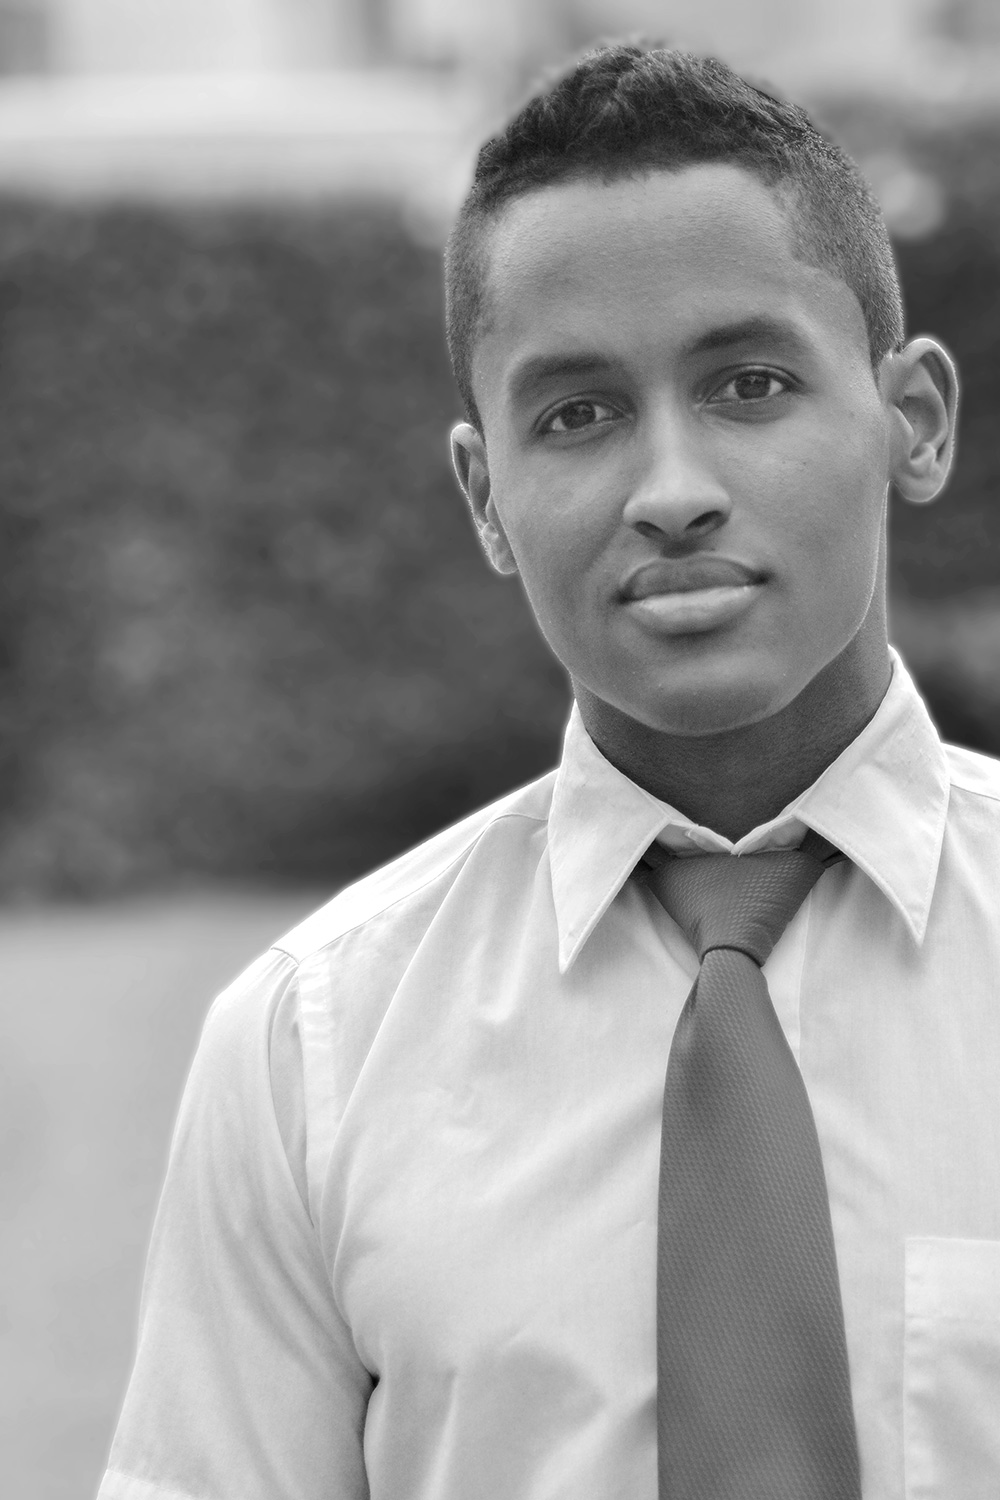
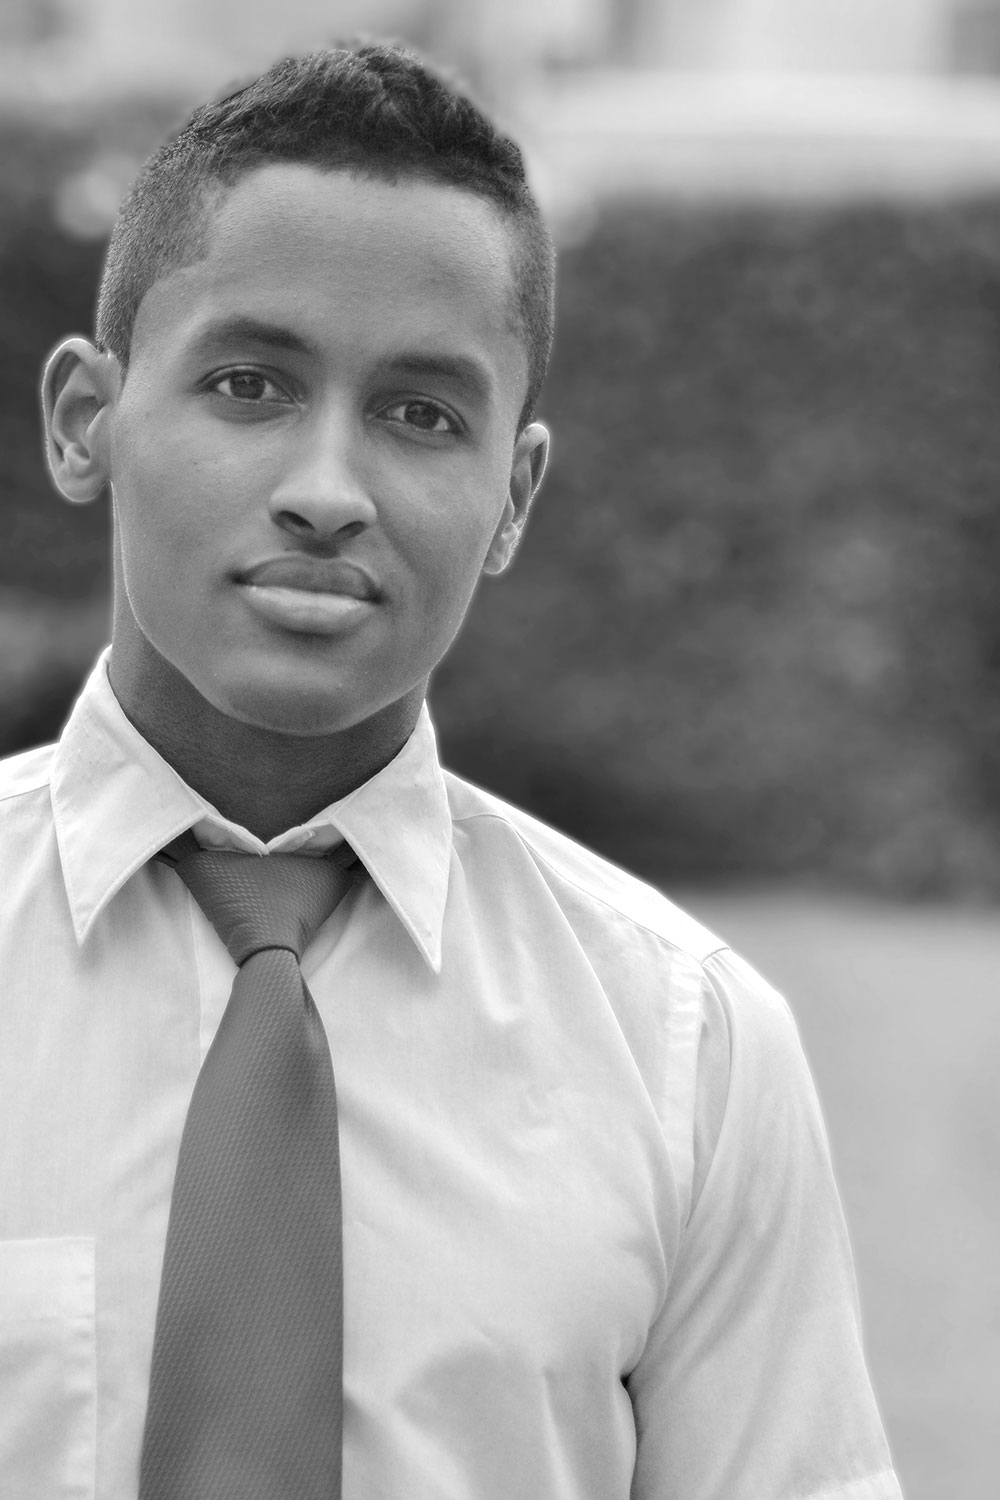
Adding static

diff --git a/assets/css/style.css b/assets/css/style.css
@@ -55,10 +55,9 @@ h6 {
 #paper {
 	position: relative;
 	background-color: #fff;
-	min-height: 250px;
-	-webkit-box-shadow: 0 7px 17px #cccccc;
-	-moz-box-shadow: 0 7px 17px #cccccc;
-	box-shadow: 0 7px 17px #cccccc;
+	-webkit-box-shadow: 0 34px 44px #cccccc; /* 0 7px 17px #cccccc */
+	-moz-box-shadow: 0 34px 44px #cccccc;
+	box-shadow: 0 34px 44px #cccccc;
 	-webkit-radius: 3px;
 	border-radius: 3px;
 }
@@ -76,6 +75,111 @@ h6 {
 	border-top-left-radius: 3px;
 	border-top-right-radius: 3px;
 }
-#paper [class*='col-'] {
+.nop {
 	padding: 0;
+}
+.product-image {
+	position: relative;
+}
+.product-image:after {
+	content: "";
+    position: absolute;
+    top: 7%;
+    left: 9%;
+    background-color: #009cc3; /* #20d3fd */
+    width: 81%;
+    height: 87%;
+    display: block;
+    opacity: 0.5;
+}
+.product-name {
+	font-size: 1.5em;
+	margin-top: 30px;
+	margin-bottom: 0;
+}
+.product-category {
+	color: #afafaf;
+}
+.product-price {
+    color: #666;
+}
+.product-detail {
+    margin-top: 25px;
+}
+.detail-title {
+    font-weight: 600;
+    font-size: 1em;
+    margin-bottom: 0;
+}
+.detail-content {
+    font-size: 1.1em;
+}
+.product-cta {
+	margin-top: 20px;
+	margin-bottom: 50px;
+}
+.btn {
+	display: inline-block;
+	padding: 10px 25px;
+	margin-bottom: 0;
+	font-size: 14px;
+	font-weight: normal;
+	line-height: 1.72857143;
+	text-align: center;
+	white-space: nowrap;
+	vertical-align: middle;
+	-ms-touch-action: manipulation;
+	touch-action: manipulation;
+	cursor: pointer;
+	-webkit-user-select: none;
+	-moz-user-select: none;
+	-ms-user-select: none;
+	user-select: none;
+	background-image: none;
+	border: none;
+	border-radius: 32px;
+	font-family: "Montserrat";
+}
+.btn:hover {
+	text-decoration: none;
+}
+.btn-primary {
+	color: #fff;
+	background-color: #00d7d7;
+}
+/*  Mobile First */
+@media screen and (min-width: 480px) {
+	#paper {
+		min-height: 250px;
+	}
+	.product-image:before {
+		content: "";
+		position: absolute;
+		top: 0;
+		right: -78px;
+    	width: 157px;
+    	height: 100%;
+		background-color: #fff;
+		transform: skewX(15deg);
+	}
+	.product-info {
+		position: relative;
+		margin-top: 100px;
+	}
+	.product-name {
+		font-size: 3em;
+	}
+	.detail-title {
+	    font-size: 1.3em;
+	}
+	.btn-primary {
+		font-size: 24px;
+	}
+	.product-cta {
+		margin-top: 50px;
+		margin-bottom: 20px;
+	}
+	.detail-content {
+	    font-size: 1.4em;
+	}
 }

diff --git a/index.html b/index.html
@@ -25,14 +25,52 @@
 <body>
 	<div id="wrapper" class="container-fluid">
 		<div class="row">
-			<div class="col-lg-offset-2 col-lg-8 col-md-offset-2 col-md-8 col-sm-offset-1 col-sm-offset-8 col-xs-offset-1 col-xs-10">
+			<div class="col-lg-offset-2 col-lg-8 col-md-offset-2 col-md-8 col-sm-offset-1 col-sm-offset-8 col-xs-12">
 				<div id="paper" class="container-fluid">
 					<div class="row">
-						<div class="col-sm-4">
-							<img class="img-responsive" src="assets/img/profile.jpg" height="1500" width="1000" alt="">
+						<div class="col-sm-5 nop">
+							<div class="product-image">
+								<img class="img-responsive" src="assets/img/profile.jpg" height="1500" width="1000" alt="">
+							</div> 
 						</div>
-						<div class="col-sm-8">
-							
+						<div class="col-sm-7 nop">
+							<div class="container-fluid">
+								<div class="row">
+									<div class="col-lg-12 col-md-12 col-sm-12 col-xs-12">
+										<div class="product-info">
+											<h1 class="product-name text-uppercase">
+												Richard Blondet
+											</h1>
+											<p class="product-category">
+												Web Developer
+											</p>
+											<h2 class="product-price">
+												$17
+											</h2>
+										</div>
+									</div>
+								</div>
+								<div class="row">
+									<div class="col-lg-11 col-md-11 col-sm-11 col-xs-11">
+										<div class="product-detail">
+											<p class="detail-title text-uppercase text-underline">
+												Details
+											</p>
+											<p class="detail-content">
+												Proeficient in Javascript:AngularJS, PHP + SQL, Laravel, Slim & Wordpress. Solid skills and understanding in SPA. Product version comes with Noob skills in NodeJS.
+												<a href="#">View More</a>
+											</p>
+										</div>
+									</div>
+								</div>
+								<div class="row">
+									<div class="col-lg-12 col-md-12 col-sm-12 col-xs-12">
+										<div class="product-cta">
+											<a href="mailto:mail@richardblondet.com" class="btn btn-primary">BUY NOW</a>
+										</div>
+									</div>
+								</div>
+							</div>
 						</div>
 					</div>
 				</div>
